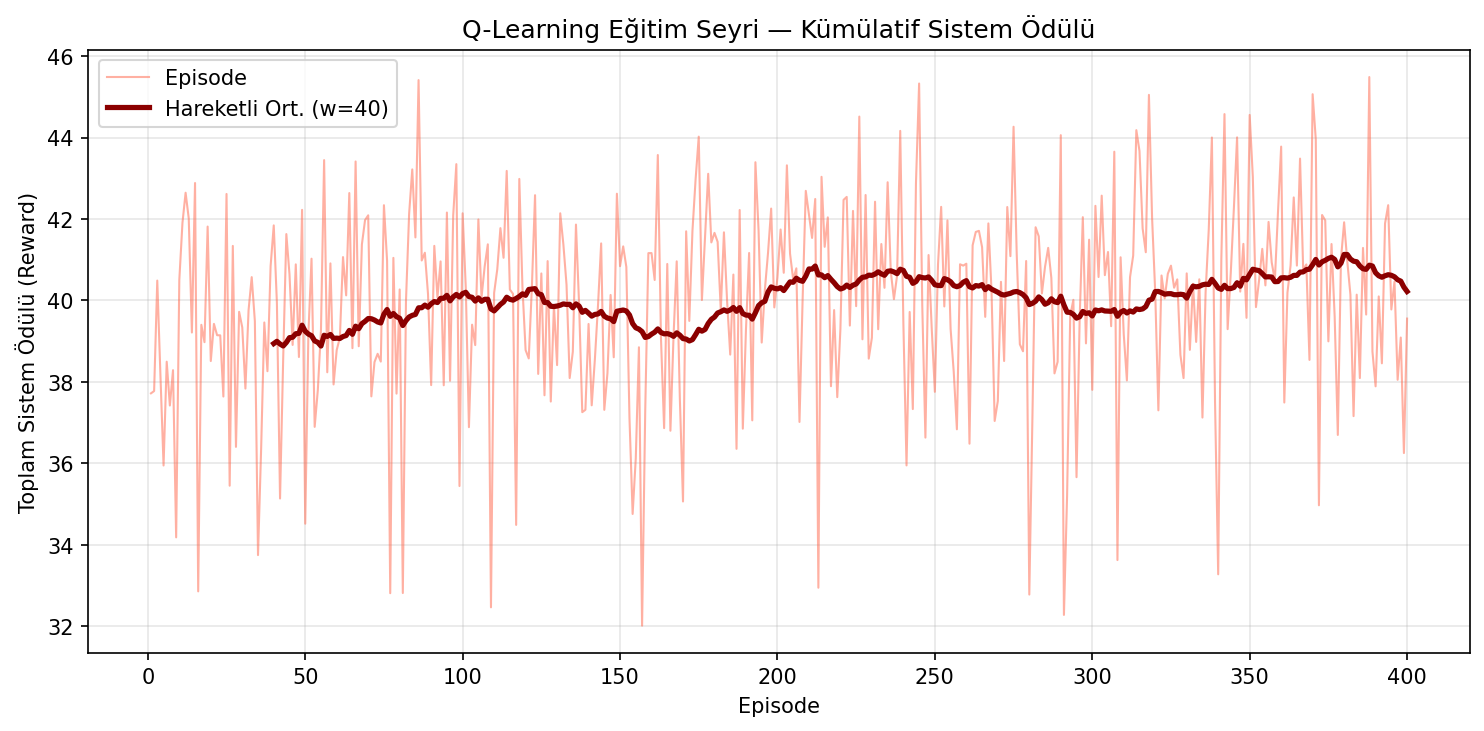
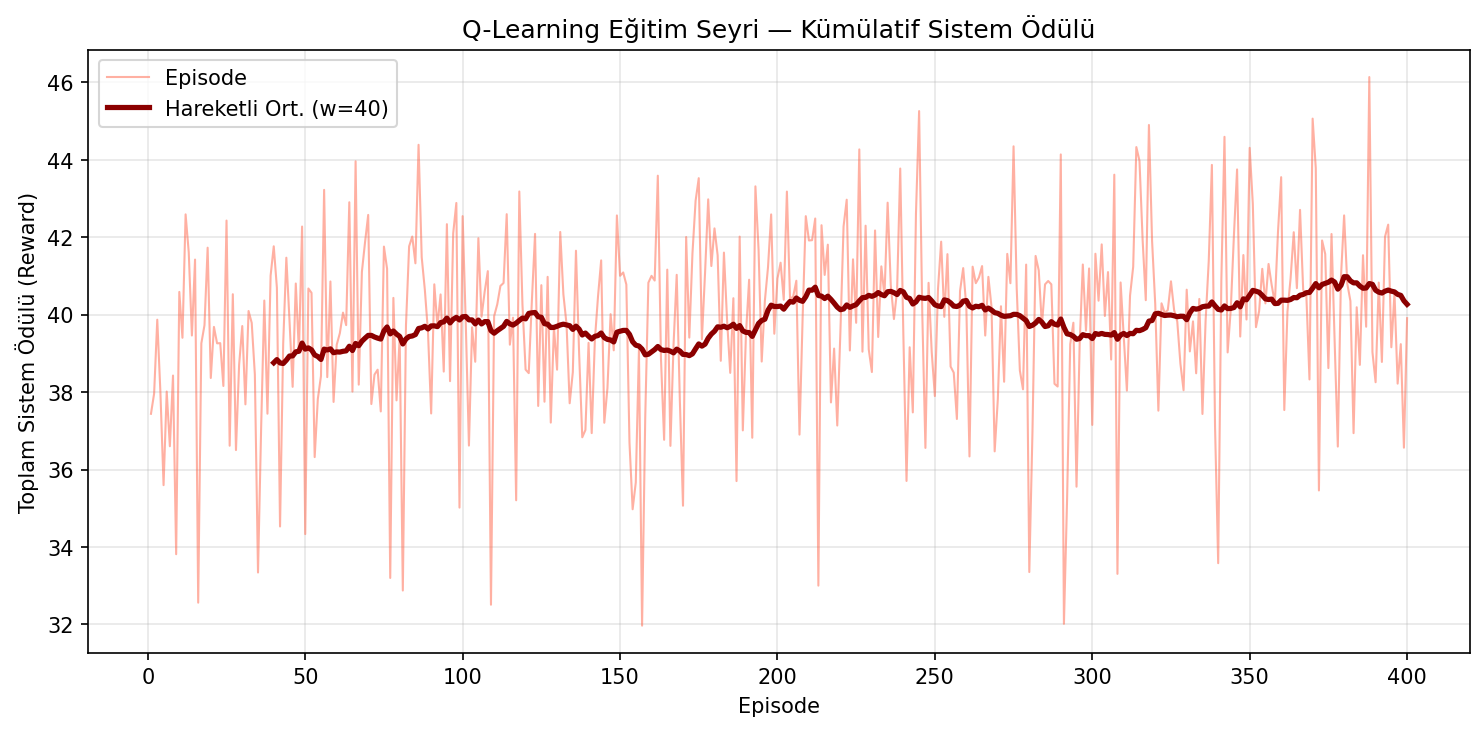
State ve gradient formülleri güncellendi

diff --git a/src/reinforce_agent.py b/src/reinforce_agent.py
@@ -2,9 +2,12 @@
 REINFORCE (Direct Policy Gradient) Agent — Faz 3.
 
 Hocanın spesifikasyonu:
-  State  : (günün saati, arz miktarı) — 2 boyutlu sürekli uzay
-           hour_norm   = obs.hour / 47.0           ∈ [0, 1]
-           supply_norm = clip(|net_load| / 10, 1)  ∈ [0, 1]
+  State  : 5 boyutlu sürekli uzay
+           hour_norm   = obs.hour / 47.0              ∈ [0, 1]
+           supply_norm = clip(|net_load| / 10, 1)     ∈ [0, 1]
+           best_bid_n  = clip(obs.best_bid / 0.5, 1)  ∈ [0, 1]  ← YENİ
+           best_ask_n  = clip(obs.best_ask / 0.5, 1)  ∈ [0, 1]  ← YENİ
+           avg_price_n = clip(obs.avg_price / 0.5, 1) ∈ [0, 1]  ← YENİ
 
   Network: PolicyNet — Linear(2→64) → ReLU → Linear(64→64) → ReLU → Linear(64→1) → Sigmoid
            W = θ  (hocanın "Theta Weight" ifadesi = ağın tüm parametreleri)
@@ -16,10 +19,12 @@ Hocanın spesifikasyonu:
            Satıcı: sell_income + curtailed × rate + β × price_premium
            Alıcı : −net_cost  (alıcı öğrenmez, MB eğrisi kullanılır)
 
-  Update : Doğrudan Gradient (Direct Policy Optimization — Seçenek 1):
-           G_t  = Σ_{k=t}^{T} γ^k × r_k    normalize edilmiş indirimli getiri
-           loss = −mean(G_t × a_t)           episode SONUNDA tek gradient adımı
-           θ   ← θ − lr × ∇_θ loss
+  Update : Proper REINFORCE (log_prob policy gradient):
+           G_t      = Σ_{k=t}^{T} γ^k × r_k           normalize edilmiş getiri
+           log_prob = log Normal(a_raw; μ=PolicyNet(s), σ)
+           loss     = −mean(G_t × log_prob)             episode SONUNDA güncelleme
+           θ        ← θ − lr × ∇_θ loss
+           Gradient: ∂log_prob/∂μ = (a_raw − μ) / σ²  → μ üzerinden akar
 
 Sadece satıcılar öğrenir (net_load < 0).
 Alıcılar MB eğrisini kullanır — Faz 1/2 mantığı korunur.
@@ -118,16 +123,18 @@ class REINFORCEAgent(EnergyAgent):
         self.fit_price = config.fit_price
         self.tou_price = config.tou_price
 
-        # Politika ağı ve optimizer
-        self.policy_net = PolicyNet(state_dim=2, hidden=hidden)
+        # Politika ağı ve optimizer (state_dim=5: saat, miktar, bid, ask, avg_price)
+        self.policy_net = PolicyNet(state_dim=5, hidden=hidden)
         self.optimizer  = optim.Adam(self.policy_net.parameters(), lr=lr)
 
-        # Episode buffer: her satıcı adımı için (a_tensor, reward)
-        # _episode_a: gradient graph'ı canlı tutan tensor listesi
-        # _episode_rewards: float listesi (senkronize)
-        self._episode_a: List[torch.Tensor] = []
-        self._episode_rewards: List[float]  = []
-        self._last_was_seller: bool         = False
+        # Episode buffer — her satıcı adımı için:
+        #   _episode_mu  : μ = PolicyNet(s), gradient graph canlı
+        #   _episode_raw : ham örnek a_raw = μ + noise, detached (log_prob için)
+        #   _episode_rewards: float listesi (ikisiyle senkronize)
+        self._episode_mu: List[torch.Tensor]  = []
+        self._episode_raw: List[torch.Tensor] = []
+        self._episode_rewards: List[float]    = []
+        self._last_was_seller: bool           = False
 
         # Eğitim modu:
         #   True  → Gaussian gürültü eklenir (keşif / exploration)
@@ -143,17 +150,27 @@ class REINFORCEAgent(EnergyAgent):
     # ------------------------------------------------------------------
 
     def _encode_state(self, obs: Observation) -> torch.Tensor:
-        """Gözlemi 2-boyutlu normalize tensora çevirir.
+        """Gözlemi 5-boyutlu normalize tensora çevirir.
 
-        hour_norm   = obs.hour / 47.0               ∈ [0, 1]
-        supply_norm = clip(|inflexible_load| / 10)  ∈ [0, 1]
+        [0] hour_norm    = obs.hour / 47.0                ∈ [0, 1]
+        [1] supply_norm  = clip(|inflexible_load| / 10)   ∈ [0, 1]
+        [2] best_bid_n   = clip(obs.best_bid / 0.5)       ∈ [0, 1]  ← piyasa sinyali
+        [3] best_ask_n   = clip(obs.best_ask / 0.5)       ∈ [0, 1]  ← piyasa sinyali
+        [4] avg_price_n  = clip(obs.last_avg_price / 0.5) ∈ [0, 1]  ← piyasa sinyali
 
-        supply_norm: negatif net_load → satıcı fazlası kWh, 10 kWh'da normalize
+        Normalizer 0.5: FiT=0.06 → 0.12, ToU=0.28 → 0.56 (0.5 iyi bir orta nokta)
+        Sıfır değer (saat 0, henüz işlem yok) geçerli girdi — ağ bunu öğrenir.
         """
         hour_norm   = obs.hour / 47.0
-        surplus     = max(0.0, -obs.inflexible_load)  # satıcı: net_load < 0
+        surplus     = max(0.0, -obs.inflexible_load)
         supply_norm = min(surplus / 10.0, 1.0)
-        return torch.tensor([hour_norm, supply_norm], dtype=torch.float32)
+        best_bid_n  = min(obs.best_bid / 0.5, 1.0)
+        best_ask_n  = min(obs.best_ask / 0.5, 1.0)
+        avg_price_n = min(obs.last_avg_price / 0.5, 1.0)
+        return torch.tensor(
+            [hour_norm, supply_norm, best_bid_n, best_ask_n, avg_price_n],
+            dtype=torch.float32,
+        )
 
     # ------------------------------------------------------------------
     # Policy override
@@ -173,19 +190,22 @@ class REINFORCEAgent(EnergyAgent):
 
         if net < -0.01:  # ── SATICI: PolicyNet kullan ──────────────────
             self._last_was_seller = True
-            state  = self._encode_state(obs)
-            a_base = self.policy_net(state)          # shape [1], requires_grad=True
+            state  = self._encode_state(obs)          # 5-boyutlu
+            a_base = self.policy_net(state)            # μ ∈ [0,1], requires_grad=True
 
             if self.training_mode:
-                noise = torch.randn_like(a_base) * self.sigma
-                a     = (a_base + noise).clamp(0.0, 1.0)   # diferansiyel, grad var
+                noise   = torch.randn_like(a_base) * self.sigma
+                a_raw   = a_base + noise               # ham örnek (log_prob için)
+                a_acted = a_raw.clamp(0.0, 1.0)       # piyasaya gönderilen aksiyon
             else:
-                a = a_base.clamp(0.0, 1.0)                 # deterministik
+                a_raw   = a_base                       # deterministik: noise yok
+                a_acted = a_base.clamp(0.0, 1.0)
 
-            self._episode_a.append(a)  # gradient graph korunuyor
+            # μ ve ham örnek ayrı saklanır — proper REINFORCE log_prob için
+            self._episode_mu.append(a_base)            # grad var (ağa bağlı)
+            self._episode_raw.append(a_raw.detach())   # grad yok (sadece değer)
 
-            # Piyasaya gönderilecek fiyat (gradient graph dışında)
-            price = self.fit_price + float(a.detach()) * (self.tou_price - self.fit_price)
+            price = self.fit_price + float(a_acted.detach()) * (self.tou_price - self.fit_price)
             price = float(np.clip(price, 0.001, 2.0))
 
             order = Order(
@@ -233,18 +253,19 @@ class REINFORCEAgent(EnergyAgent):
     # ------------------------------------------------------------------
 
     def update_policy(self):
-        """Episode sonu gradient güncellemesi — Direct Policy Gradient.
+        """Episode sonu gradient güncellemesi — Proper REINFORCE (log_prob).
 
         Adımlar:
           1. İndirimli getiriler:  G_t = Σ_{k=t}^{T} γ^k × r_k
           2. Normalize et:         G_t ← (G_t - mean) / (std + ε)
-          3. Loss:                 loss = −mean(G_t × a_t)
-             Yorum: yüksek getirili adımlarda a_t'yi artır,
-                    düşük getirili adımlarda a_t'yi azalt.
-          4. Gradient:             loss.backward() → optimizer.step()
-          5. Gradient clipping:    max_norm = 1.0 (patlamayı önler)
+          3. Log-prob hesapla:     π(a|s) = Normal(μ=PolicyNet(s), σ)
+                                   log_prob = log π(a_raw; μ, σ)
+                                   ∂log_prob/∂μ = (a_raw - μ) / σ²
+          4. Loss:                 loss = −mean(G_t × log_prob)
+          5. Gradient:             loss.backward() → optimizer.step()
+          6. Gradient clipping:    max_norm = 1.0
         """
-        n = min(len(self._episode_a), len(self._episode_rewards))
+        n = min(len(self._episode_mu), len(self._episode_rewards))
         if n == 0:
             return
 
@@ -264,15 +285,21 @@ class REINFORCEAgent(EnergyAgent):
             if std > 1e-8:
                 returns_t = (returns_t - returns_t.mean()) / (std + 1e-8)
 
-        # ── Adım 3 & 4: Loss ve gradient ─────────────────────────────
-        # torch.cat: n ayrı [1] tensorı → shape [n], gradient graph'lar birleşir
-        a_stack = torch.cat(self._episode_a[:n])
-        loss    = -(returns_t * a_stack).mean()
+        # ── Adım 3 & 4 & 5: Proper REINFORCE loss ────────────────────
+        # μ: PolicyNet çıktısı, grad var
+        # a_raw: ham örnek (clamp öncesi), detached — log_prob değeri için
+        # Gradient sadece μ üzerinden akar: ∂log_prob/∂μ = (a_raw - μ) / σ²
+        mu_stack  = torch.cat(self._episode_mu[:n])    # shape [n], grad var
+        raw_stack = torch.cat(self._episode_raw[:n])   # shape [n], grad yok
+
+        dist      = torch.distributions.Normal(mu_stack, self.sigma)
+        log_probs = dist.log_prob(raw_stack)            # shape [n]
+        loss      = -(returns_t * log_probs).mean()
 
         self.optimizer.zero_grad()
-        loss.backward()  # n ayrı forward pass'in gradientları birikmeli hesaplanır
+        loss.backward()
 
-        # ── Adım 5: Gradient clipping ─────────────────────────────────
+        # ── Adım 6: Gradient clipping ─────────────────────────────────
         torch.nn.utils.clip_grad_norm_(self.policy_net.parameters(), max_norm=1.0)
 
         self.optimizer.step()
@@ -293,7 +320,8 @@ class REINFORCEAgent(EnergyAgent):
         self.sigma = max(self.sigma_min, self.sigma * self.sigma_decay)
 
         # Buffer temizle → computation graph serbest bırakılır (bellek)
-        self._episode_a       = []
+        self._episode_mu      = []
+        self._episode_raw     = []
         self._episode_rewards = []
         self._last_was_seller = False
 

diff --git a/src/reinforce_environment.py b/src/reinforce_environment.py
@@ -97,7 +97,8 @@ class REINFORCEEnv(EnergyTradingEnv):
                 existing.hourly_log       = []
 
                 # Episode buffer'ı temizle (önceki episode artığı kalmasın)
-                existing._episode_a       = []
+                existing._episode_mu      = []
+                existing._episode_raw     = []
                 existing._episode_rewards = []
                 existing._last_was_seller = False
 
